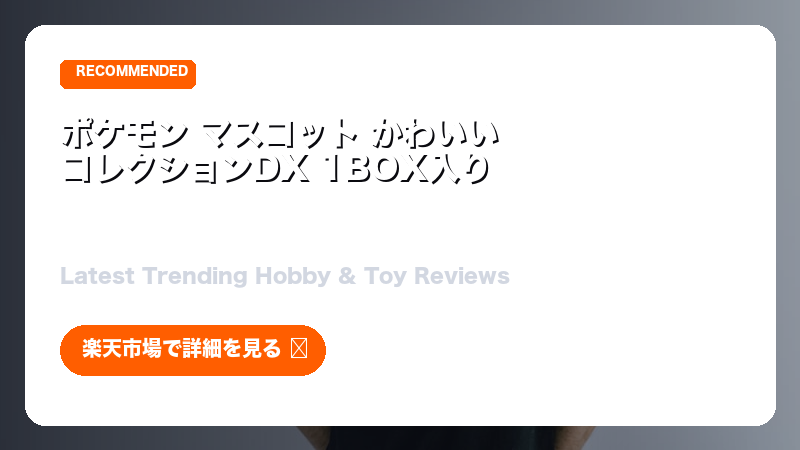
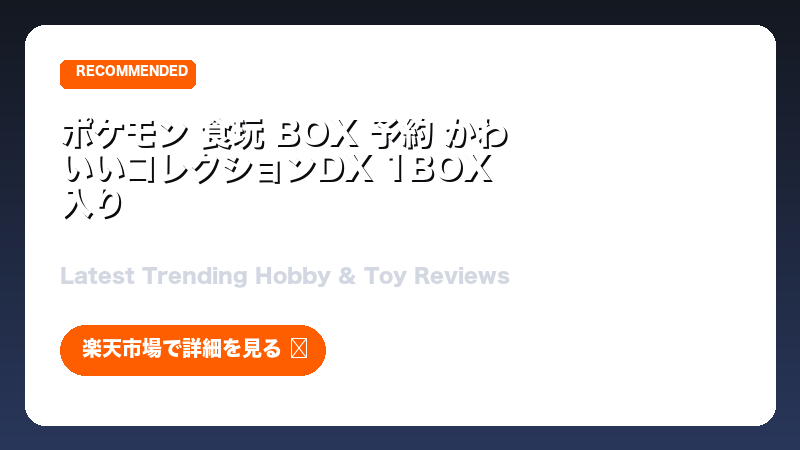
修正

diff --git a/mikke_blogger.py b/mikke_blogger.py
@@ -53,7 +53,7 @@ def generate_keyword() -> str:
     hobby = random.choice(HOBBIES)
     return f"{char} {hobby}"
 
-def fetch_rakuten_items(app_id: str, affiliate_id: str, keyword: str) -> list:
+def fetch_rakuten_items(app_id: str, access_key: str, affiliate_id: str, keyword: str) -> list:
     """Fetches items from the Rakuten Ichiba Item Search API."""
     if not app_id or app_id.startswith("DUMMY"):
         print("Rakuten App ID not set. Using mock data for local dry-run.")
@@ -62,7 +62,7 @@ def fetch_rakuten_items(app_id: str, affiliate_id: str, keyword: str) -> list:
     print(f"Debug: RAKUTEN_APP_ID length is {len(app_id)}")
     print(f"Searching with Keyword: {keyword}")
 
-    base_url = "https://app.rakuten.co.jp/services/api/IchibaItem/Search/20220601"
+    base_url = "https://openapi.rakuten.co.jp/services/api/IchibaItem/Search/20220601"
     params = {
         "applicationId": app_id,
         "affiliateId": affiliate_id,
@@ -72,6 +72,10 @@ def fetch_rakuten_items(app_id: str, affiliate_id: str, keyword: str) -> list:
         "hits": 10,
         "format": "json"
     }
+
+    if access_key:
+        print(f"Debug: RAKUTEN_ACCESS_KEY is set. Length: {len(access_key)}")
+        params["accessKey"] = access_key
 
     url = f"{base_url}?{urllib.parse.urlencode(params)}"
     try:
@@ -120,6 +124,7 @@ def main():
     
     # 1. Configurations
     rakuten_app_id = os.environ.get("RAKUTEN_APP_ID", "DUMMY_APP_ID")
+    rakuten_access_key = os.environ.get("RAKUTEN_ACCESS_KEY", "")
     rakuten_affiliate_id = os.environ.get("RAKUTEN_AFFILIATE_ID", "DUMMY_AFFILIATE_ID")
     
     hatena_id = os.environ.get("HATENA_ID", "DUMMY_HATENA_ID")
@@ -139,7 +144,7 @@ def main():
     print(f"Loaded {len(posted_cache)} posted items from cache.")
 
     # 4. Fetch Items
-    items = fetch_rakuten_items(rakuten_app_id, rakuten_affiliate_id, keyword)
+    items = fetch_rakuten_items(rakuten_app_id, rakuten_access_key, rakuten_affiliate_id, keyword)
     if not items:
         print("Error: No items fetched from Rakuten Ichiba API.")
         sys.exit(1)